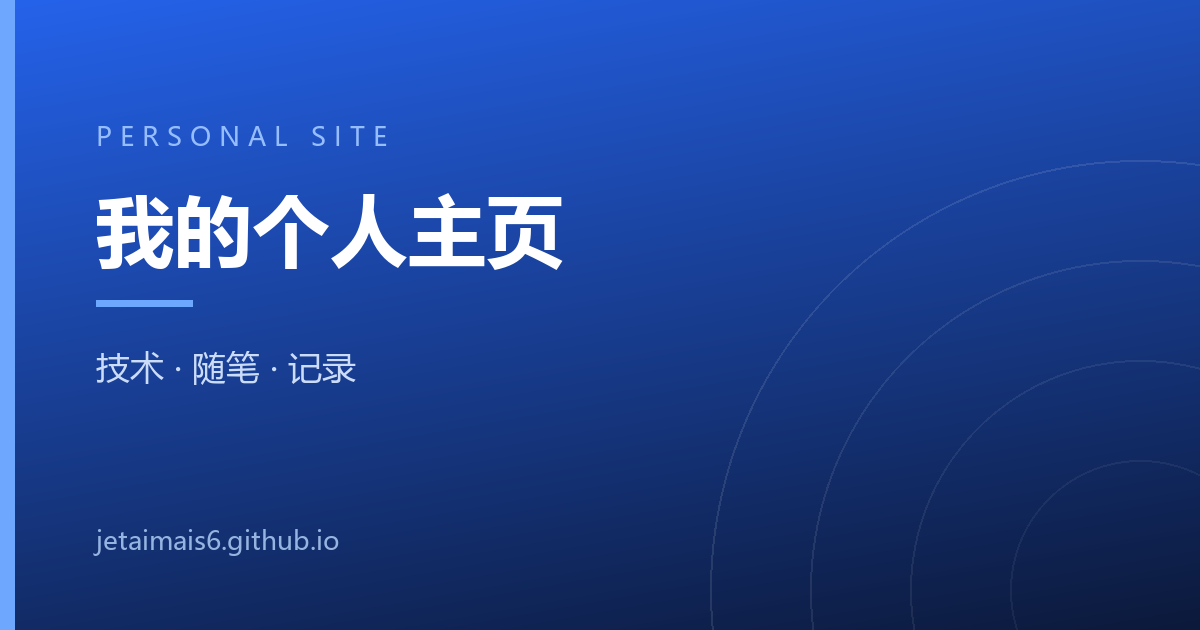
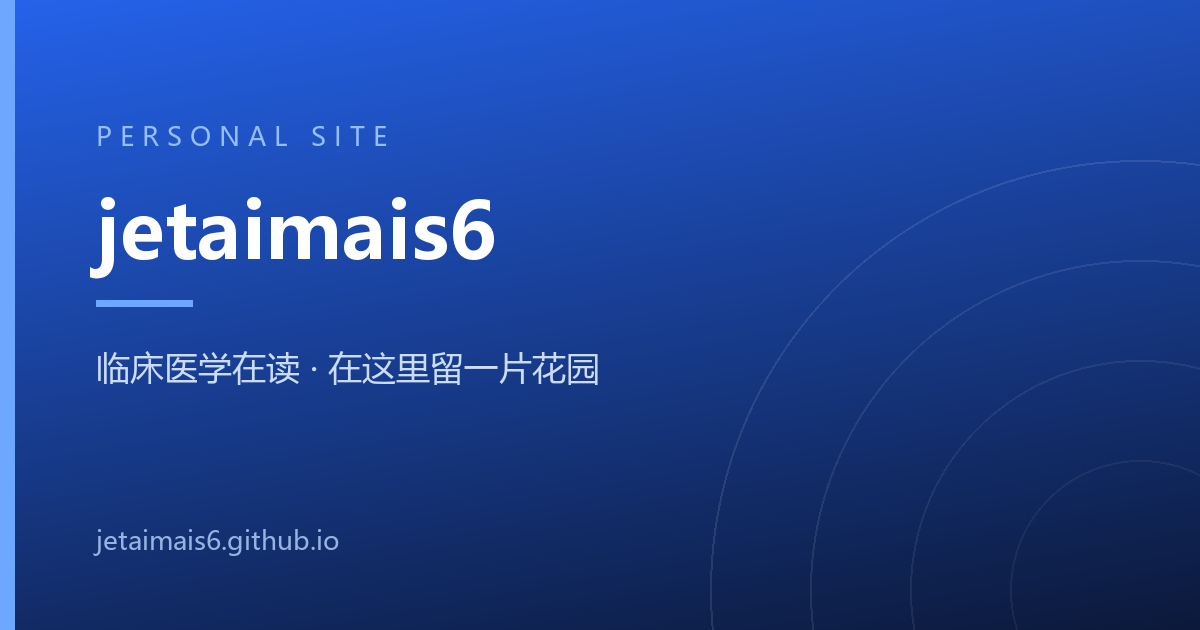
填入真实内容：jetaimais6 / 临床医学在读 / 花园主线 / X 与 B站联系方式

Changed region(s): [[0.0617, 0.3016, 0.4625, 0.4524], [0.0617, 0.5429, 0.5242, 0.6333]]

diff --git a/index.html b/index.html
@@ -17,9 +17,8 @@
 </script>
 
 <!-- ============ SEO ============ -->
-<!-- 改成你的名字和一句话简介 -->
-<title>我的个人主页</title>
-<meta name="description" content="个人主页 —— 技术、随笔与记录。">
+<title>jetaimais6 · 个人主页</title>
+<meta name="description" content="jetaimais6 —— 临床医学在读。在嘈杂的世界里，给自己留一片花园：知识笔记、生活记录与随想。">
 <meta name="author" content="jetaimais6">
 <link rel="canonical" href="https://jetaimais6.github.io/">
 <meta name="theme-color" content="#ffffff" media="(prefers-color-scheme: light)">
@@ -28,20 +27,20 @@
 
 <!-- ============ 社交分享卡片 ============ -->
 <meta property="og:type" content="website">
-<meta property="og:site_name" content="我的个人主页">
-<meta property="og:title" content="我的个人主页">
-<meta property="og:description" content="个人主页 —— 技术、随笔与记录。">
+<meta property="og:site_name" content="jetaimais6">
+<meta property="og:title" content="jetaimais6 · 个人主页">
+<meta property="og:description" content="临床医学在读。在嘈杂的世界里，给自己留一片花园。">
 <meta property="og:url" content="https://jetaimais6.github.io/">
 <meta property="og:image" content="https://jetaimais6.github.io/assets/og-image.png">
 <meta property="og:image:width" content="1200">
 <meta property="og:image:height" content="630">
-<meta property="og:image:alt" content="我的个人主页">
+<meta property="og:image:alt" content="jetaimais6 的个人主页">
 <meta property="og:locale" content="zh_CN">
 
 <!-- Twitter 用 summary_large_image 才会显示大图 -->
 <meta name="twitter:card" content="summary_large_image">
-<meta name="twitter:title" content="我的个人主页">
-<meta name="twitter:description" content="个人主页 —— 技术、随笔与记录。">
+<meta name="twitter:title" content="jetaimais6 · 个人主页">
+<meta name="twitter:description" content="临床医学在读。在嘈杂的世界里，给自己留一片花园。">
 <meta name="twitter:image" content="https://jetaimais6.github.io/assets/og-image.png">
 
 <!-- ============ 图标 ============ -->
@@ -64,16 +63,22 @@
 {
   "@context": "https://schema.org",
   "@type": "WebSite",
-  "name": "我的个人主页",
+  "name": "jetaimais6",
+  "alternateName": "jetaimais6 的个人主页",
+  "description": "临床医学在读。在嘈杂的世界里，给自己留一片花园。",
   "url": "https://jetaimais6.github.io/",
   "inLanguage": "zh-CN",
   "author": {
     "@type": "Person",
     "name": "jetaimais6",
-    "url": "https://github.com/jetaimais6",
+    "jobTitle": "临床医学在读本科生",
+    "description": "大二全日制本科在读，攻读临床医学。",
+    "url": "https://jetaimais6.github.io/",
     "email": "2787148660@qq.com",
     "sameAs": [
-      "https://github.com/jetaimais6"
+      "https://github.com/jetaimais6",
+      "https://x.com/2787148660F",
+      "https://space.bilibili.com/1417173350"
     ]
   },
   "contactPoint": {
@@ -91,12 +96,11 @@
 
 <header class="site-header">
   <div class="wrap header-inner">
-    <!-- 改成你的名字 -->
-    <a class="brand" href="/">我的主页</a>
+    <a class="brand" href="/">jetaimais6</a>
 
     <nav class="site-nav" aria-label="主导航">
       <a href="#about">关于</a>
-      <a href="#work">作品</a>
+      <a href="#garden">花园</a>
       <a href="#contact">联系</a>
     </nav>
 
@@ -124,15 +128,19 @@
       <p class="eyebrow">个人主页</p>
 
       <!-- 想放头像就加一张图片到 assets/ 目录，然后取消下面这行注释 -->
-      <!-- <img class="avatar" src="assets/avatar.jpg" alt="我的头像" width="112" height="112"> -->
+      <!-- <img class="avatar" src="assets/avatar.jpg" alt="jetaimais6 的头像" width="112" height="112"> -->
 
-      <!-- 改成你的名字 -->
-      <h1>你好，欢迎来到我的主页</h1>
+      <h1>jetaimais6</h1>
 
-      <!-- 改成你的一句话自我介绍 -->
       <p class="lead">
-        我是一名 <strong>开发者</strong>，在这里记录<strong>技术、随笔与想法</strong>。
-        把这句话换成你自己的介绍即可。
+        临床医学在读。想在嘈杂的世界里，给自己留一片花园——
+        这里种着我读过的书、记下的笔记，和一些还没想明白的问题。
+      </p>
+
+      <p class="status" role="note">
+        <span class="badge">大二</span>
+        <span class="badge">临床医学</span>
+        <span class="badge">全日制本科在读</span>
       </p>
 
       <div class="hero-actions">
@@ -149,37 +157,37 @@
     <section id="about" class="section">
       <h2>关于</h2>
       <p>
-        这里写两三句你的背景。比如：目前在做什么、擅长什么、对什么感兴趣。
-        个人主页的作用是让对方在 30 秒内明白你是谁、能做什么。
+        我是 <strong>jetaimais6</strong>，大二全日制本科在读，攻读<strong>临床医学</strong>。
+        课业之外，喜欢把学过的东西整理成笔记——写下来才算真的想清楚。
       </p>
-      <p>第二段可以写经历或技能。保持简短，没人会读长段落。</p>
-
-      <ul class="tags" aria-label="技能标签">
-        <li>JavaScript</li>
-        <li>TypeScript</li>
-        <li>Python</li>
-        <li>用户体验</li>
-      </ul>
+      <p>
+        这个站点是我的<strong>花园</strong>。外面的世界很吵，
+        这里不追热点、不做运营，只是慢慢种点东西：读过的、想过的、还没答案的。
+      </p>
     </section>
 
-    <!-- ============ 作品 / 文章 ============
-         注意：这里的链接指向真实内容或明确标注「待补充」，
-         不放 href="#" 的假链接——点了没反应比没有更糟。 -->
-    <section id="work" class="section">
-      <h2>作品与文章</h2>
-      <p class="muted">下面是待补充的占位条目。填上真实链接后，删掉卡片上的 <code>is-placeholder</code> 类。</p>
+    <!-- ============ 花园 ============
+         这里目前还是空的（如实说明，不放假链接）。
+         开始写文章后，把每块的 <p> 换成 <a href="..."> 即可。 -->
+    <section id="garden" class="section">
+      <h2>花园</h2>
+      <p class="muted">还没开始种。下面是打算开辟的几块地。</p>
 
       <ul class="card-list">
         <li class="card is-placeholder">
-          <!-- 有真实链接后改成 <a href="posts/xxx.html"> -->
-          <h3><span>示例文章标题（待补充）</span></h3>
-          <p>一句话说明这篇文章讲了什么。</p>
-          <p class="meta">2026-09-30 · 待补充</p>
+          <h3><span>知识笔记</span></h3>
+          <p>医学课程与自学内容的结构化整理，方便日后回看。</p>
+          <p class="meta">待开垦</p>
         </li>
         <li class="card is-placeholder">
-          <h3><span>示例项目名称（待补充）</span></h3>
-          <p>这个项目解决了什么问题，用了什么技术。</p>
-          <p class="meta">2026-08-15 · 待补充</p>
+          <h3><span>生活记录</span></h3>
+          <p>读书、电影、音乐，以及一些没什么用但想留下的瞬间。</p>
+          <p class="meta">待开垦</p>
+        </li>
+        <li class="card is-placeholder">
+          <h3><span>随想</span></h3>
+          <p>还没想清楚的问题，先写下来，等以后回来补答案。</p>
+          <p class="meta">待开垦</p>
         </li>
       </ul>
     </section>
@@ -187,16 +195,35 @@
     <!-- ============ 联系 ============ -->
     <section id="contact" class="section">
       <h2>联系</h2>
-      <p>最直接的方式是邮件，也可以在这些地方找到我：</p>
+      <p>欢迎来花园里坐坐，随便聊聊。</p>
       <ul class="link-list">
-        <!-- 改成你的真实信息；不用的行直接删掉 -->
         <li>
           <span class="k">Email</span>
           <!-- 邮箱由脚本拼接填入（防爬虫抓取）。无脚本时由下方 noscript 回退。 -->
           <a class="js-email" href="#" data-u="2787148660" data-d="qq.com" rel="me">加载中…</a>
           <noscript><a href="mailto:2787148660@qq.com">2787148660@qq.com</a></noscript>
         </li>
-        <li><span class="k">GitHub</span> <a href="https://github.com/jetaimais6" target="_blank" rel="noopener">@jetaimais6</a></li>
+        <li>
+          <span class="k">X</span>
+          <a href="https://x.com/2787148660F" target="_blank" rel="me noopener" class="icon-link">
+            <svg viewBox="0 0 24 24" fill="currentColor" aria-hidden="true" focusable="false"><path d="M18.9 1.2h3.7l-8.1 9.3L24 22.8h-7.5l-5.9-7.7-6.7 7.7H.2l8.6-9.9L0 1.2h7.7l5.3 7 6-7zm-1.3 19.4h2L6.5 3.3H4.4l13.2 17.3z"/></svg>
+            <span>@2787148660F</span>
+          </a>
+        </li>
+        <li>
+          <span class="k">Bilibili</span>
+          <a href="https://space.bilibili.com/1417173350" target="_blank" rel="me noopener" class="icon-link">
+            <svg viewBox="0 0 24 24" fill="none" stroke="currentColor" stroke-width="1.8" stroke-linecap="round" stroke-linejoin="round" aria-hidden="true" focusable="false"><rect x="2" y="6" width="20" height="14" rx="3"/><path d="M7 2.5 10 6M17 2.5 14 6"/><path d="M8.5 11.5v2.5M15.5 11.5v2.5"/></svg>
+            <span>1417173350</span>
+          </a>
+        </li>
+        <li>
+          <span class="k">GitHub</span>
+          <a href="https://github.com/jetaimais6" target="_blank" rel="me noopener" class="icon-link">
+            <svg viewBox="0 0 24 24" fill="currentColor" aria-hidden="true" focusable="false"><path d="M12 .3a12 12 0 0 0-3.8 23.4c.6.1.8-.3.8-.6v-2.2c-3.3.7-4-1.6-4-1.6-.6-1.4-1.4-1.8-1.4-1.8-1.1-.8.1-.8.1-.8 1.2.1 1.9 1.3 1.9 1.3 1.1 1.9 2.8 1.3 3.5 1 .1-.8.4-1.3.8-1.6-2.7-.3-5.5-1.3-5.5-5.9 0-1.3.5-2.4 1.2-3.2-.1-.3-.5-1.5.1-3.2 0 0 1-.3 3.3 1.2a11.5 11.5 0 0 1 6 0c2.3-1.5 3.3-1.2 3.3-1.2.6 1.7.2 2.9.1 3.2.8.8 1.2 1.9 1.2 3.2 0 4.6-2.8 5.6-5.5 5.9.4.4.8 1.1.8 2.2v3.3c0 .3.2.7.8.6A12 12 0 0 0 12 .3z"/></svg>
+            <span>@jetaimais6</span>
+          </a>
+        </li>
       </ul>
     </section>
 

diff --git a/assets/style.css b/assets/style.css
@@ -163,6 +163,25 @@ a:hover { color: var(--accent-hover); text-decoration: underline; }
 }
 .lead strong { color: var(--text); font-weight: 600; }
 
+/* ---------- 身份标签（大二 / 临床医学 …） ---------- */
+.status {
+  display: flex;
+  flex-wrap: wrap;
+  gap: .5rem;
+  margin: 0 0 1.75rem;
+}
+
+.badge {
+  font-size: .8rem;
+  line-height: 1.6;
+  padding: .1rem .65rem;
+  border-radius: 999px;
+  color: var(--text-muted);
+  background: var(--surface-sunken);
+  border: 1px solid var(--line);
+  letter-spacing: var(--track-label);
+}
+
 /* ---------- 按钮 ---------- */
 .hero-actions { display: flex; flex-wrap: wrap; gap: .75rem; }
 
@@ -298,6 +317,22 @@ a:hover { color: var(--accent-hover); text-decoration: underline; }
   text-transform: uppercase;
   letter-spacing: var(--track-label);
 }
+
+/* 带图标的链接（X / B站 / GitHub） */
+.icon-link {
+  display: inline-flex;
+  align-items: center;
+  gap: .4rem;
+  color: var(--text);
+}
+.icon-link:hover { color: var(--accent); }
+.icon-link svg {
+  width: 1.05em;
+  height: 1.05em;
+  flex: none;
+  opacity: .75;
+}
+.icon-link:hover svg { opacity: 1; }
 
 /* ---------- 代码（以后写文章会用到） ---------- */
 code, pre { font-family: var(--font-mono); font-size: .9em; }
